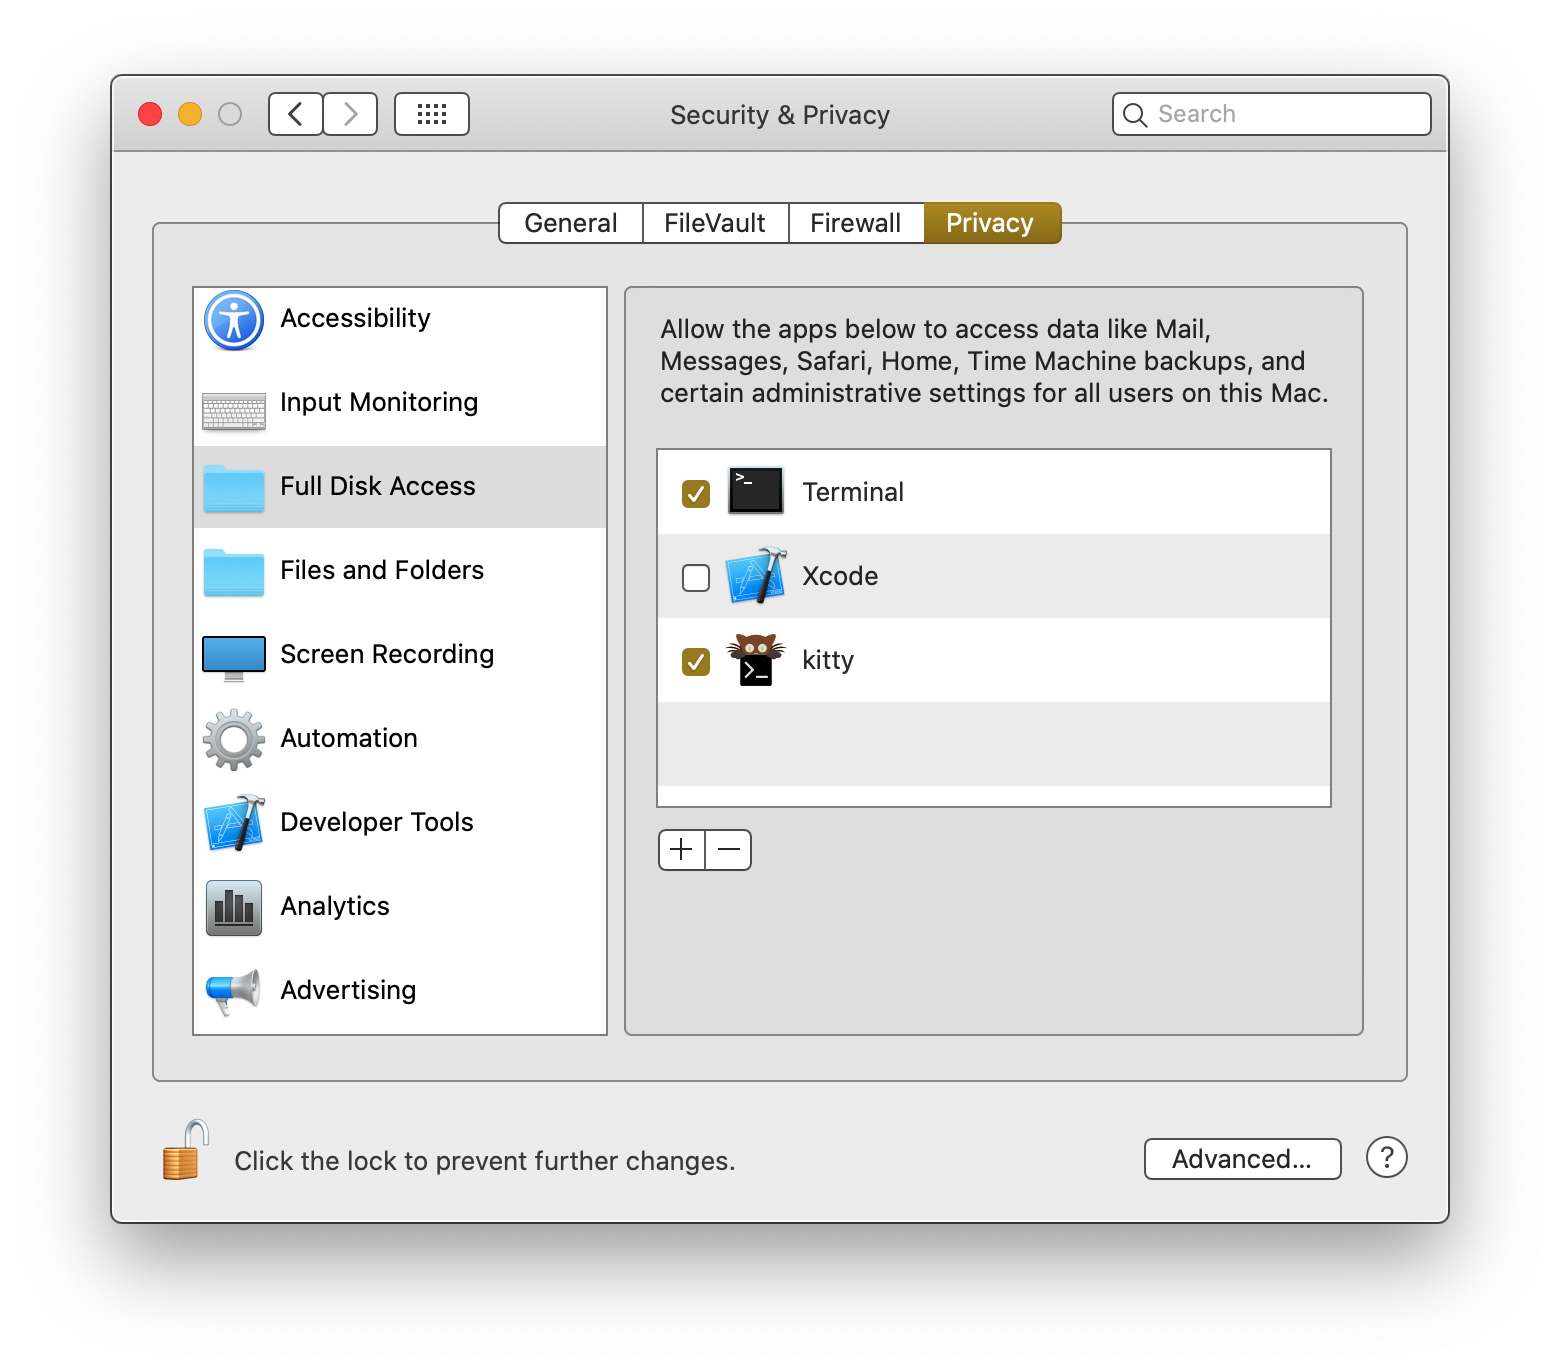
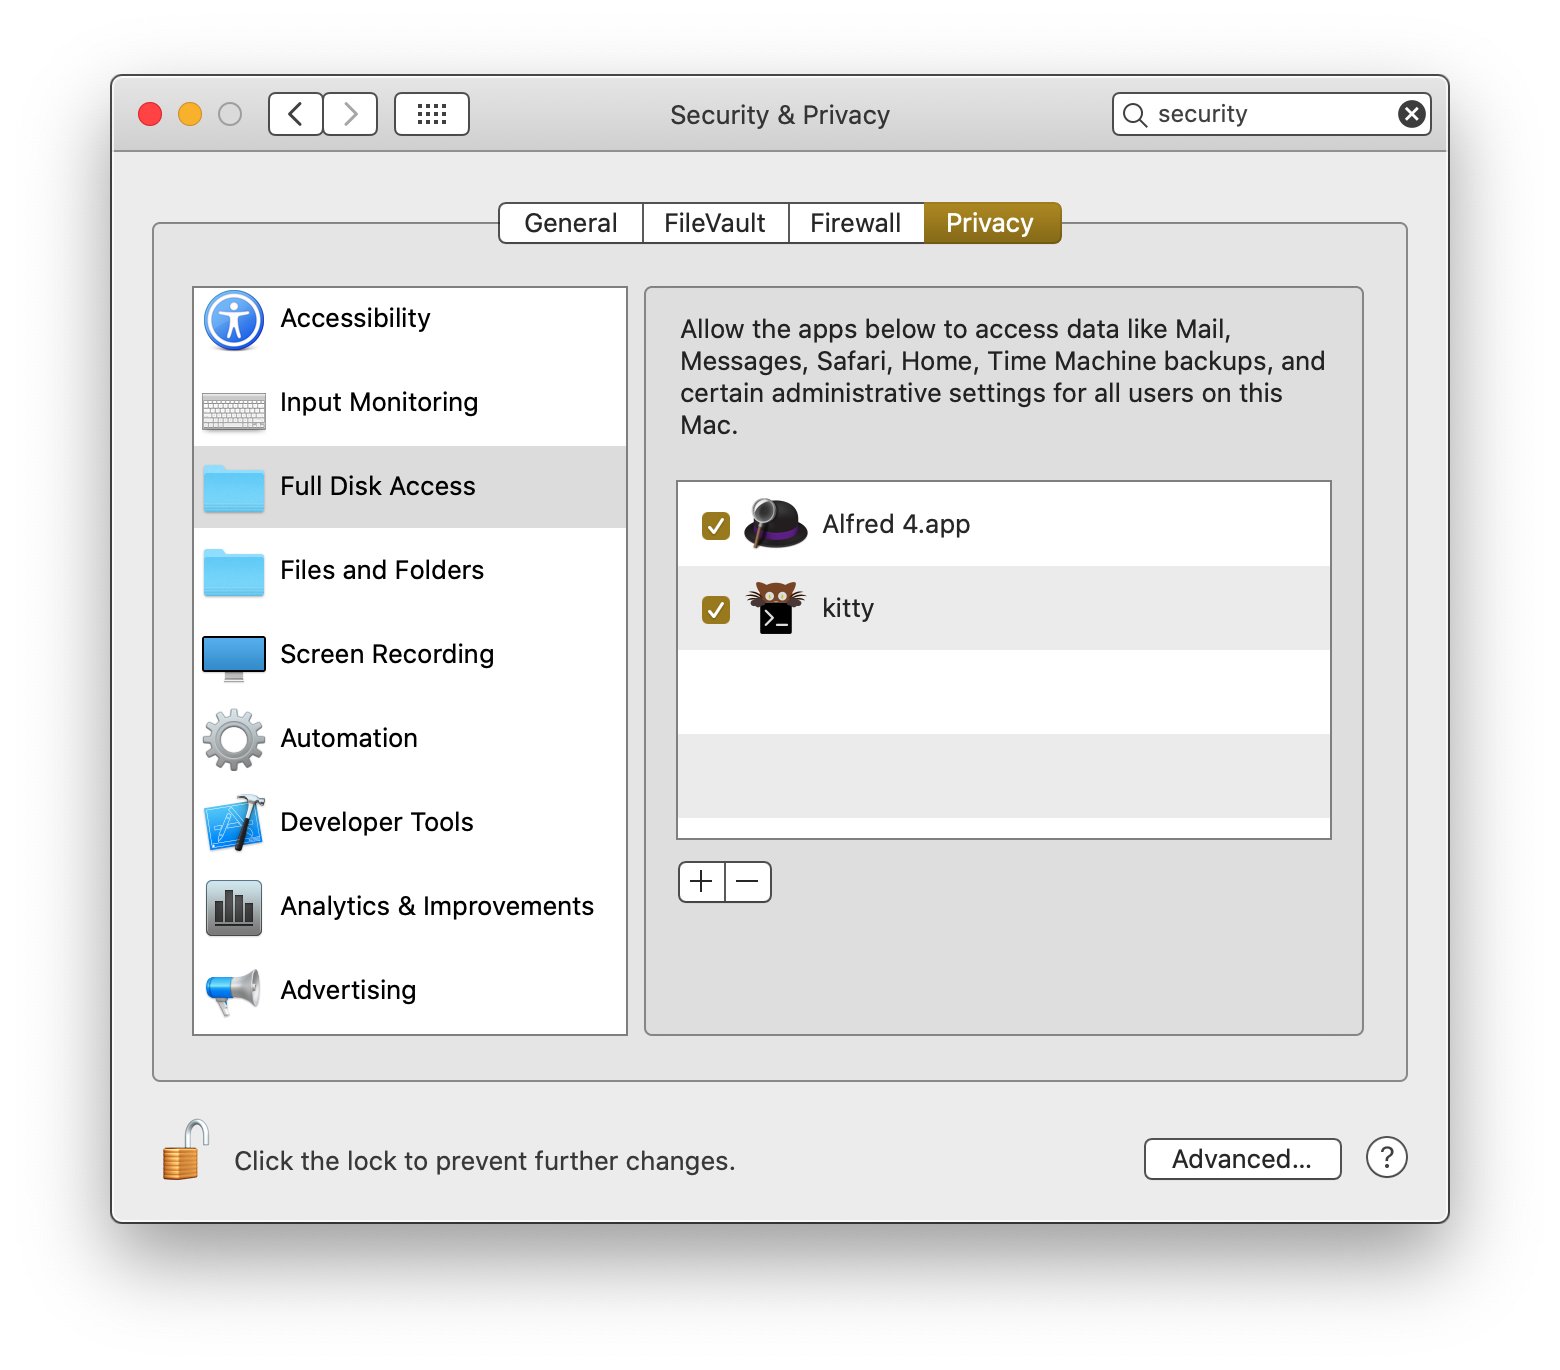
os permissions update

Changed region(s): [[0.2462, 0.2146, 0.8615, 0.7664], [0.7385, 0.0613, 0.8, 0.092], [0.8923, 0.0613, 0.9231, 0.092]]

diff --git a/macOS-config/README.md b/macOS-config/README.md
@@ -184,23 +184,6 @@ Under `Trackpad > Point & Click`, I've enabled `Force Click & haptic feedback` a
 
 <img alt="The `Trackpad > Point & Click` pane with `Force Click & haptic feedback` checked and `Tap to click` checked." src="images/trackpad-settings.png" height="600"/>
 
-## OS Permissions
-
-During the course of your installation, it's likely you'll get a bunch of notifications that look like this:
-
-![Example notification with the title `"Calendar" would like to use your current location`, the text `Your location is required to provide you with improved location searches and travel time estimates.`, and the options `Don't Allow` and `OK`.](images/example-permissions-notification.png)
-
-You can click either, since you can configure these later. My permissions for current location look like:
-
-![The `System Preferences > Security & Privacy > Privacy` pane open, with `Calendar` deselected and `Find My` and `Siri & Dicatation` selected.](images/location-services-permissions.png)
-
-Important thing to note–in the `Details...` section under `System Services`, there's granular permissions that show Apple is doing some shady advertising... I've disabled `Location-Based Suggestions`, `Significant Locations`, `Location-Based Apple Ads`, and `HomeKit` (because I don't use HomeKit).
-
-![The `System Preferences > Security & Privacy > Privacy` pane open, with the `Details...` menu of `System Services` opened. I have unchecked `Location-Based Suggestions`, `Significant Locations`, `Location-Based Apple Ads`, and `HomeKit`.](images/system-services-location-preferences.png)
-
-In order to not get a billion notifications about whether your terminal is allowed to access folders, you should add your preferred terminal emulator (I've added the default `Terminal.app` as well) to the list of applications with `Full Disk Access` in the `System Preferences > Security & Privacy > Privacy` menu.
-
-![The `System Preferences > Security & Privacy > Privacy` menu open with `Full Disk Access` selected. `Terminal` and `kitty` are both checked, `Xcode` is in the list but is not.](/Users/lschumm/Desktop/dotfiles/macOS-config/images/full-disk-access.png)
 
 ## Git Credential Cache Helper
 
@@ -263,7 +246,8 @@ $ brew cask install telegram \
 		    vlc \
 		    deluge \
 		    firefox \
-		    karabiner-elements
+		    karabiner-elements \
+		    alfred
 ```
 
 ## Set Firefox as the Default Browser
@@ -277,3 +261,23 @@ Catalina has a new notification for when application signing isn't verified by A
 ![A system notification with the title `"kitty" can't be opened because Apple cannot check it for malicious software.` and the body `This software needs to be updated. Contact the developer for more information. Homebrew Cask downloaded this file today at 1:12 PM from github.com.`](images/cant-scan-for-malicious-software.png)
 
 Nothing's changed except the message. To open these applications for the first time, just find the application and right-click to open it.
+
+## OS Permissions
+
+During the course of your installation, it's likely you'll get a bunch of notifications that look like this:
+
+![Example notification with the title `"Calendar" would like to use your current location`, the text `Your location is required to provide you with improved location searches and travel time estimates.`, and the options `Don't Allow` and `OK`.](images/example-permissions-notification.png)
+
+You can click either, since you can configure these later. My permissions for current location look like:
+
+![The `System Preferences > Security & Privacy > Privacy` pane open, with `Calendar` deselected and `Find My` and `Siri & Dicatation` selected.](images/location-services-permissions.png)
+
+Important thing to note–in the `Details...` section under `System Services`, there's granular permissions that show Apple is doing some shady advertising... I've disabled `Location-Based Suggestions`, `Significant Locations`, `Location-Based Apple Ads`, and `HomeKit` (because I don't use HomeKit).
+
+![The `System Preferences > Security & Privacy > Privacy` pane open, with the `Details...` menu of `System Services` opened. I have unchecked `Location-Based Suggestions`, `Significant Locations`, `Location-Based Apple Ads`, and `HomeKit`.](images/system-services-location-preferences.png)
+
+In order to not get a billion notifications about whether your terminal is allowed to access folders, you should add your preferred terminal emulator to the list of applications with `Full Disk Access` in the `System Preferences > Security & Privacy > Privacy` menu.
+
+Alfred also needs full disk access in order to index applications and files.
+
+![The `System Preferences > Security & Privacy > Privacy` menu open with `Full Disk Access` selected. `Alfred 4.app` and `kitty` are the only options, are both checked.](images/full-disk-access.png)
